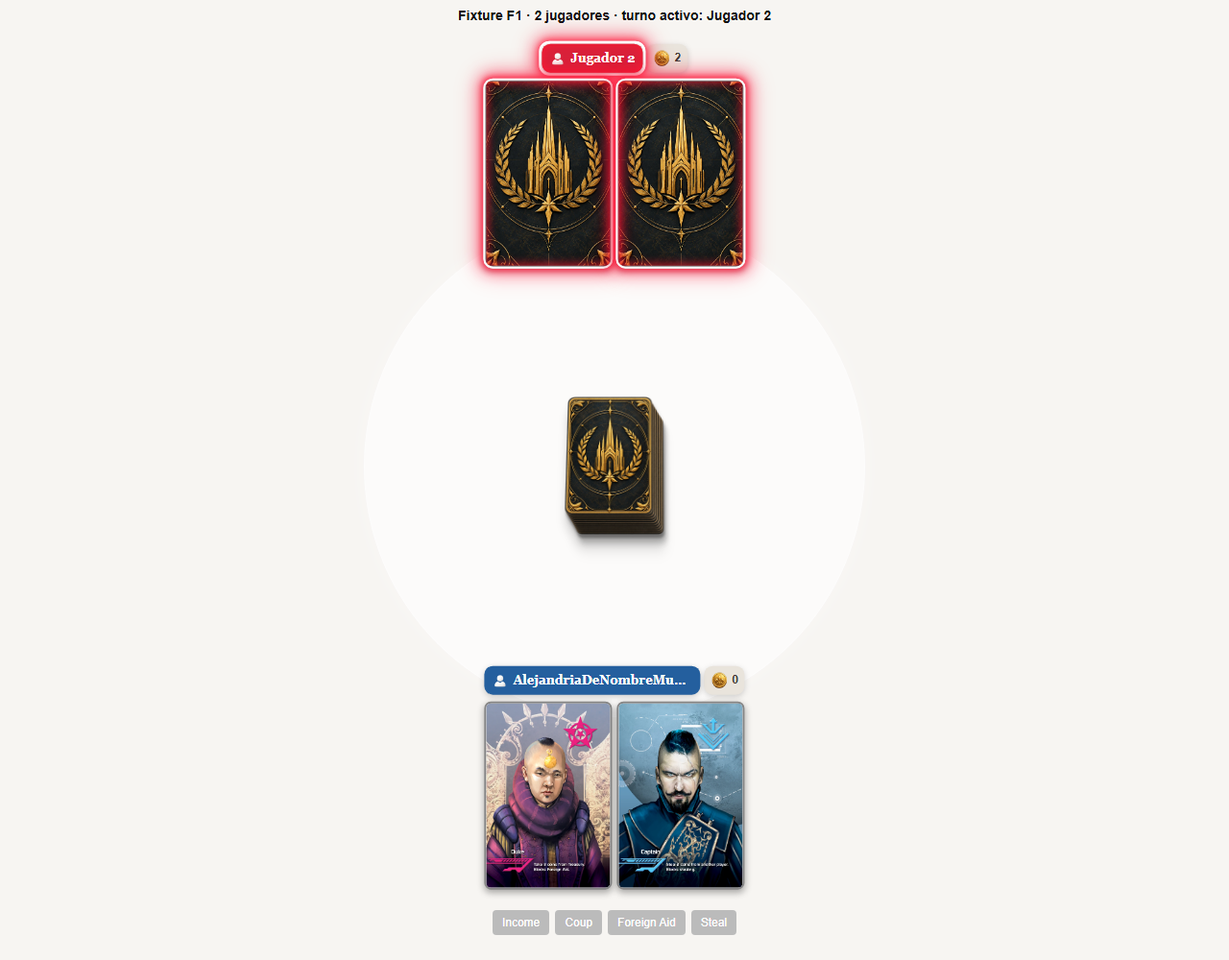
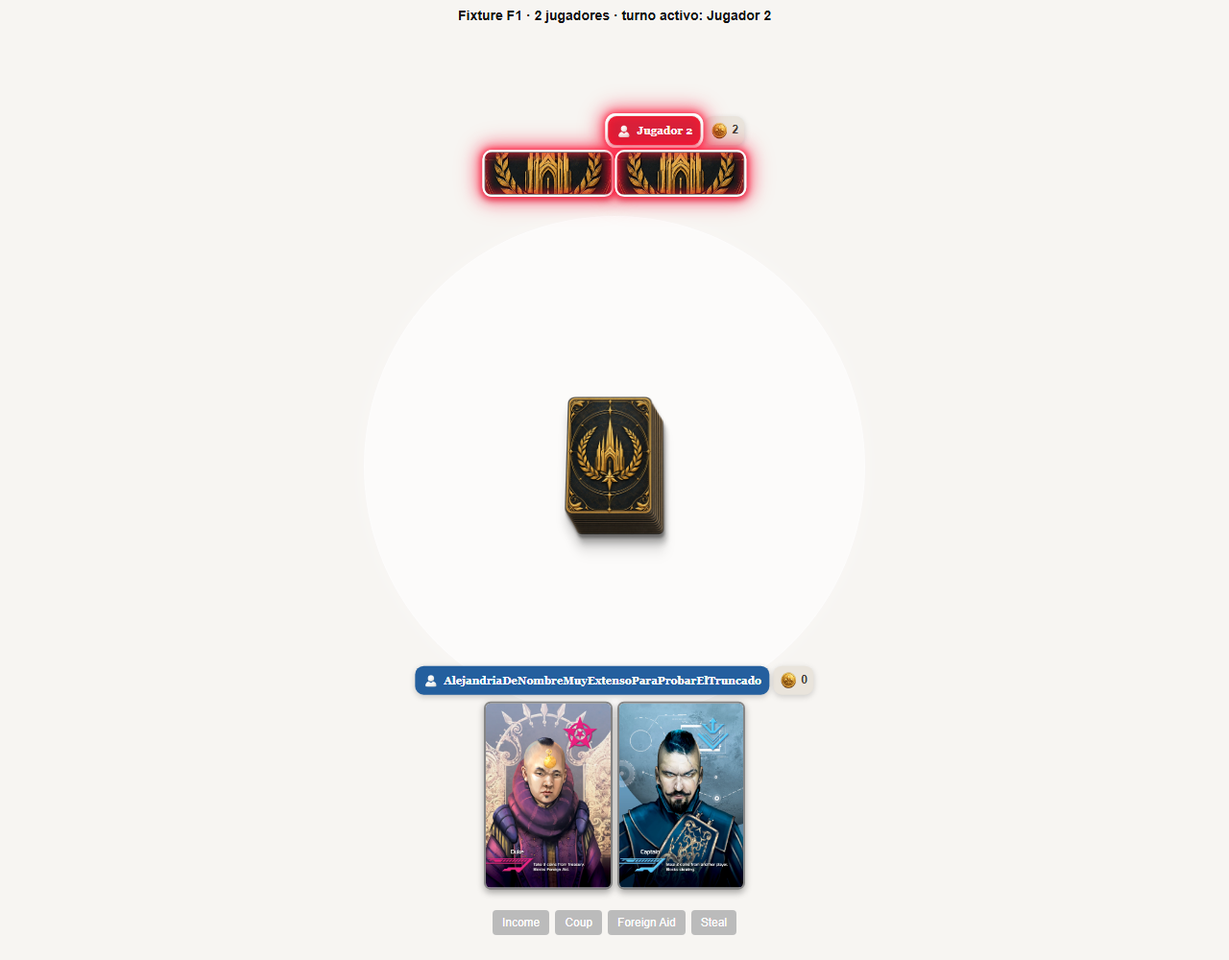
feat(player-header): apply mobile naming and card-height feedback

diff --git a/coup-client/src/components/game/PlayerBoardStyles.css b/coup-client/src/components/game/PlayerBoardStyles.css
@@ -69,13 +69,15 @@
 }
 
 .PlayerBoardSeatHeader {
+    position: relative;
+    left: 50%;
     display: inline-flex;
     align-items: stretch;
     gap: 4px;
     width: max-content;
-    max-width: calc(2 * clamp(76px, 10.4vw, 134px) + 5px);
     box-sizing: border-box;
     margin: 0 auto 7px;
+    transform: translateX(-50%);
 }
 
 .PlayerBoardSeatName {
@@ -87,7 +89,6 @@
     align-items: center;
     gap: 5px;
     box-sizing: border-box;
-    max-width: 100%;
     margin: 0;
     padding: 4px 8px;
     overflow: visible;
@@ -96,7 +97,7 @@
     box-shadow: 0 2px 6px rgba(0, 0, 0, 0.2);
     color: #fff;
     font-family: Georgia, 'Times New Roman', serif;
-    font-size: 0.82rem;
+    font-size: 0.7rem;
     font-weight: 600;
     line-height: 1.15;
     text-align: left;
@@ -113,10 +114,10 @@
 
 .PlayerBoardSeatNameText {
     display: block;
-    flex: 1 1 auto;
-    min-width: 0;
-    overflow: hidden;
-    text-overflow: ellipsis;
+    flex: 0 0 auto;
+    min-width: max-content;
+    overflow: visible;
+    text-overflow: clip;
     white-space: nowrap;
 }
 
@@ -196,6 +197,12 @@
     box-shadow: 0 3px 7px rgba(0, 0, 0, 0.32);
 }
 
+.PlayerBoardSeat:not(.PlayerBoardSeat--observer) .PlayerInfluenceSlot {
+    height: clamp(42px, 3.5vw, 46px);
+    aspect-ratio: auto;
+    border-width: 1px;
+}
+
 .PlayerInfluenceSlot--face {
     padding: 0;
     background: #fff;
@@ -258,7 +265,8 @@
 
 @media only screen and (max-width: 520px) {
     .PlayerBoardSeatHeader {
-        max-width: calc(2 * clamp(58px, 15.5vw, 82px) + 5px);
+        gap: 3px;
+        margin-bottom: 3px;
     }
 
     .PlayerBoardSeat {
@@ -270,28 +278,33 @@
     }
 
     .PlayerBoardSeatName {
-        gap: 4px;
-        padding: 3px 6px;
-        font-size: 0.68rem;
+        gap: 3px;
+        padding: 1px 4px;
+        font-size: 0.52rem;
+        line-height: 1;
     }
 
     .PlayerBoardPlayerIcon {
-        flex-basis: 15px;
-        width: 15px;
-        height: 15px;
+        flex-basis: 12px;
+        width: 12px;
+        height: 12px;
     }
 
     .PlayerBoardSeatCoins {
-        gap: 3px;
-        min-height: 27px;
-        padding: 3px 6px;
-        font-size: 0.68rem;
+        gap: 2px;
+        min-height: 18px;
+        padding: 1px 4px;
+        font-size: 0.58rem;
     }
 
     .PlayerBoardCoinIcon {
-        flex-basis: 16px;
-        width: 16px;
-        height: 16px;
+        flex-basis: 13px;
+        width: 13px;
+        height: 13px;
+    }
+
+    .PlayerBoardSeat:not(.PlayerBoardSeat--observer) .PlayerInfluenceSlot {
+        height: clamp(28px, 9vw, 38px);
     }
 
     .PlayerBoardSeat[data-seat-header-edge="left"] .PlayerBoardSeatHeader {

diff --git a/coup-client/src/components/game/PlayerBoard.js b/coup-client/src/components/game/PlayerBoard.js
@@ -97,6 +97,7 @@ export default function PlayerBoard(props) {
                                 : undefined
                 const seatClassName = [
                     'PlayerBoardSeat',
+                    isObserver ? 'PlayerBoardSeat--observer' : '',
                     isCurrentPlayer ? 'PlayerBoardSeat--current' : ''
                 ].filter(Boolean).join(' ')
 
@@ -157,4 +158,3 @@ export default function PlayerBoard(props) {
         </div>
     )
 }
-

diff --git a/docs/plans/player-header/report_issue_16_F1.md b/docs/plans/player-header/report_issue_16_F1.md
@@ -1,18 +1,19 @@
-# Reporte F1 — issue #16
+# Reporte issue #16 — F1 inicial y reorquestación F2
 
 **Unidad:** https://github.com/pronficilio/coup-online/issues/16
 **Worktree / rama:** `.worktrees/issue-16-player-header` / `issue/16-player-header`
-**Veredicto:** `FAILED` — requiere reorquestación por colisiones que exceden el alcance autorizado.
+**F1 inicial:** `FAILED`; las capturas originales mostraron cruces entre encabezados y cartas rivales.
+**F2 reorquestada:** pasa la revisión visual de capturas en 2–6 jugadores, el build del cliente y `git diff --check`; build con advertencias preexistentes.
 **PR de revisión (draft):** https://github.com/pronficilio/coup-online/pull/17
-**Issue:** permanece abierta. El PR documenta este veredicto fallido y no está listo para integrar.
+**Issue:** permanece abierta. Mantener el PR draft para revisión; no integrar hasta la aprobación del usuario.
 
 ## Cambios revisados
 
 - `coup-client/src/components/game/PlayerBoard.js`: presenta icono y nombre junto al contador de monedas en una fila; conserva `player.money` y la señal existente `props.currentPlayer` para el turno activo.
-- `coup-client/src/components/game/PlayerBoardStyles.css`: estilos de barras, truncado del nombre, resplandor activo y ancho/inset local del encabezado. No cambia la posición de asientos, cartas ni controles.
+- `coup-client/src/components/game/PlayerBoardStyles.css`: estilos de barras, texto completo sin elipsis, resplandor activo, fila móvil más baja y cartas rivales más bajas. No cambia la posición de asientos ni controles.
 - `coup-client/src/assets/player.webp` y `coin.webp`: copias de las fuentes WebP solicitadas.
 
-## Resultado frente a criterios
+## Resultado F1 inicial (histórico)
 
 | Criterio | Resultado | Evidencia |
 |---|---|---|
@@ -20,41 +21,57 @@
 | 2. Neón solo en nombre activo; saldo neutro | Pasa en las fixtures con Jugador 2 activo y los demás inactivos. | Capturas actuales de 2–6 jugadores. |
 | 3. Color inactivo e iconos proporcionados | Pasa en las fixtures inspeccionadas. | Capturas actuales de 2–6 jugadores. |
 | 4. Fila móvil, nombre truncado y saldo íntegro a 320 CSS px | Pasa: los valores `0`, `2` y `10` se conservan y el pill de monedas queda dentro del viewport. | Capturas CDP válidas de 320×900; métricas focales abajo. |
-| 5. Sin recortes ni colisiones con encabezados, cartas o controles para 2–6 jugadores | **Falla**: en 5p y 6p móviles los grupos de cartas/asientos laterales cruzan el encabezado del jugador observador. El baseline también muestra la geometría saturada. | Capturas actuales y baseline de 5p/6p más rectángulos CDP. |
+| 5. Sin recortes ni colisiones con encabezados, cartas o controles para 2–6 jugadores | **Falla en la implementación inicial**: en 5p y 6p móviles las cartas laterales cruzaban el encabezado del observador. El baseline también mostraba la geometría saturada. | Capturas iniciales en el commit `c64551b` y baseline comparable. |
 | 6. Cambios limitados a encabezado, estilos y assets | Pasa: no se modificó layout de asientos, reglas, servidor ni controles. | Diff de la rama. |
 
 ## Método y evidencia visual
 
 Las fixtures prerenderizan el `PlayerBoard` real con `playerBoardLayout.js`, CSS y assets del cliente, con props sintéticas: 2–6 jugadores, nombre largo, saldos `0`/`2`/`10`, Jugador 2 activo y Jugador 4 eliminado en las partidas de 4–6. No son partidas conectadas ni incluyen los controles reales del shell.
 
-Las capturas finales se hicieron mediante CDP con DPR 1 y `visualViewport` de 320×900 CSS px en móvil; los PNG móviles son de 320×900. El escritorio es 1280×1000. Las capturas comparables de baseline son del mismo tamaño. El set final focal se generó el 2026-09-26 a las 16:43 (UTC−06:00).
+Las capturas iniciales se hicieron mediante CDP con DPR 1; los PNG móviles son de 320×900 y el escritorio de 1280×1000. Las capturas comparables de baseline son del mismo tamaño. El set inicial se generó el 2026-09-26 a las 16:43 (UTC−06:00); quedó preservado en el commit `c64551b`.
 
-| Jugadores | Escritorio actual, 1280×1000 | Móvil actual, 320×900 CSS | Baseline comparable |
+| Jugadores | Escritorio F1 inicial, 1280×1000 | Móvil F1 inicial, 320×900 CSS | Baseline comparable |
 |---|---|---|---|
-| 2 | [captura CDP](evidence/issue16_2p_desktop_cdp_final.png) | [captura CDP](evidence/issue16_2p_mobile_320_cdp_final.png) | — |
-| 3 | [captura CDP](evidence/issue16_3p_desktop_cdp_final.png) | [captura CDP](evidence/issue16_3p_mobile_320_cdp_final.png) | — |
-| 4 | [captura CDP](evidence/issue16_4p_desktop_cdp_final.png) | [captura CDP](evidence/issue16_4p_mobile_320_cdp_final.png) | — |
-| 5 | [captura CDP](evidence/issue16_5p_desktop_cdp_final.png) | [captura CDP](evidence/issue16_5p_mobile_320_cdp_final.png) | [escritorio](evidence/issue16_5p_desktop_cdp_baseline.png), [móvil](evidence/issue16_5p_mobile_320_cdp_baseline.png) |
-| 6 | [captura CDP](evidence/issue16_6p_desktop_cdp_final.png) | [captura CDP](evidence/issue16_6p_mobile_320_cdp_final.png) | [escritorio](evidence/issue16_6p_desktop_cdp_baseline.png), [móvil](evidence/issue16_6p_mobile_320_cdp_baseline.png) |
+| 2 | [captura CDP](https://github.com/pronficilio/coup-online/blob/c64551b/docs/plans/player-header/evidence/issue16_2p_desktop_cdp_final.png) | [captura CDP](https://github.com/pronficilio/coup-online/blob/c64551b/docs/plans/player-header/evidence/issue16_2p_mobile_320_cdp_final.png) | — |
+| 3 | [captura CDP](https://github.com/pronficilio/coup-online/blob/c64551b/docs/plans/player-header/evidence/issue16_3p_desktop_cdp_final.png) | [captura CDP](https://github.com/pronficilio/coup-online/blob/c64551b/docs/plans/player-header/evidence/issue16_3p_mobile_320_cdp_final.png) | — |
+| 4 | [captura CDP](https://github.com/pronficilio/coup-online/blob/c64551b/docs/plans/player-header/evidence/issue16_4p_desktop_cdp_final.png) | [captura CDP](https://github.com/pronficilio/coup-online/blob/c64551b/docs/plans/player-header/evidence/issue16_4p_mobile_320_cdp_final.png) | — |
+| 5 | [captura CDP](https://github.com/pronficilio/coup-online/blob/c64551b/docs/plans/player-header/evidence/issue16_5p_desktop_cdp_final.png) | [captura CDP](https://github.com/pronficilio/coup-online/blob/c64551b/docs/plans/player-header/evidence/issue16_5p_mobile_320_cdp_final.png) | [escritorio](evidence/issue16_5p_desktop_cdp_baseline.png), [móvil](evidence/issue16_5p_mobile_320_cdp_baseline.png) |
+| 6 | [captura CDP](https://github.com/pronficilio/coup-online/blob/c64551b/docs/plans/player-header/evidence/issue16_6p_desktop_cdp_final.png) | [captura CDP](https://github.com/pronficilio/coup-online/blob/c64551b/docs/plans/player-header/evidence/issue16_6p_mobile_320_cdp_final.png) | [escritorio](evidence/issue16_6p_desktop_cdp_baseline.png), [móvil](evidence/issue16_6p_mobile_320_cdp_baseline.png) |
 
 ### Medición focal en móvil
 
 En ambos casos el viewport CDP medido es 320×900 CSS px, `devicePixelRatio=1` y `documentElement.clientWidth=320`. El pequeño desbordamiento lateral reportado por `innerWidth`/`scrollWidth` coincide con el borde de la geometría previa del asiento; no oculta el contador.
 
-- **5 jugadores, cambio actual:** encabezado del observador `x=99.5…220.5`, `y=267.5…294.5`; pill de monedas `x=183.4…220.5`, completamente dentro del viewport. Los grupos laterales de Player 2 (`x=201.1…322.1`, `y=201.9…287.2`) y Player 5 (`x=−2.1…118.9`, `y=201.9…287.2`) se cruzan con el encabezado aproximadamente 19.4 px en horizontal por 19.7 px en vertical. Métricas del documento: `innerWidth=323`, `innerHeight=909`, `scrollWidth=323`.
+- **5 jugadores, cambio F1 inicial:** encabezado del observador `x=99.5…220.5`, `y=267.5…294.5`; pill de monedas `x=183.4…220.5`, completamente dentro del viewport. Los grupos laterales de Player 2 (`x=201.1…322.1`, `y=201.9…287.2`) y Player 5 (`x=−2.1…118.9`, `y=201.9…287.2`) se cruzaban con el encabezado aproximadamente 19.4 px en horizontal por 19.7 px en vertical. Métricas del documento: `innerWidth=323`, `innerHeight=909`, `scrollWidth=323`.
 - **5 jugadores, baseline:** el nombre del observador ocupa `x=83.2…254.8`, `y=258.9…281.3`; la barra de monedas queda debajo, `y=285.3…303.1`. La captura también muestra el cruce con grupos laterales.
-- **6 jugadores, cambio actual:** encabezado del observador `x=99.5…220.5`, `y=267.5…294.5`; pill de monedas `x=183.4…220.5`, completamente visible. Los grupos laterales están en `x=−0.3…120.7` y `x=199.3…320.3`, `y=212.0…297.2`; cada uno cruza el encabezado aproximadamente 21 px × 27 px. Métricas del documento: `innerWidth=321`, `innerHeight=903`, `scrollWidth=321`.
+- **6 jugadores, cambio F1 inicial:** encabezado del observador `x=99.5…220.5`, `y=267.5…294.5`; pill de monedas `x=183.4…220.5`, completamente visible. Los grupos laterales estaban en `x=−0.3…120.7` y `x=199.3…320.3`, `y=212.0…297.2`; cada uno cruzaba el encabezado aproximadamente 21 px × 27 px. Métricas del documento: `innerWidth=321`, `innerHeight=903`, `scrollWidth=321`.
 - **6 jugadores, baseline:** las cartas laterales ocupan `y=220.6…305.8` y se cruzan con los encabezados apilados de nombre/monedas, mostrando el mismo problema geométrico.
 
-El ancho del encabezado se limitó y los encabezados de borde se alinearon hacia el interior. El saldo permanece entero, pero la separación no basta para quitar los cruces en 5p/6p móviles. El baseline confirma que la saturación del tablero ya existe; el nuevo bloque de encabezado no puede eliminarla dentro del límite de CSS local sin mover asientos, cartas o controles. Esa geometría está fuera del alcance de #16 y requiere reorquestación. No se amplió el alcance.
+La primera iteración limitó el ancho del encabezado. El saldo permanecía entero, pero las cartas rivales se cruzaban con la barra móvil; ese resultado motivó la reorquestación aprobada por el usuario.
+
+## F2 reorquestada tras feedback del usuario
+
+- El nombre usa letra mucho menor y se muestra completo sin `…`; la barra se centra respecto al asiento para conservar el texto largo dentro del viewport. A 320 CSS px la fila mide 18 px de alto.
+- Las cartas rivales conservan su ancho, pero su altura baja a 28–38 CSS px en móvil y 42–46 px en escritorio. Las cartas del observador mantienen su altura completa.
+- Revisión manual de las capturas CDP de 2–6 jugadores: nombres completos, monedas visibles y sin cruce visible de barras con cartas rivales en 5p/6p. La medición focal de 4p móvil confirma nombre `x=29.0…274.8`, pill `x=281.8…310.0`, ambos dentro del viewport CSS 320 px; la fila completa mide 18 px.
+- El set actualizado, generado el 2026-09-26 a las 17:17 (UTC−06:00), está en la tabla nueva. El tablero conserva el viewport y las barras del nombre/saldo quedan dentro de él en los casos revisados.
+
+| Jugadores | Escritorio F2, 1280×1000 | Móvil F2, 320×900 CSS |
+|---|---|---|
+| 2 | [captura CDP](evidence/issue16_2p_desktop_cdp_final.png) | [captura CDP](evidence/issue16_2p_mobile_320_cdp_final.png) |
+| 3 | [captura CDP](evidence/issue16_3p_desktop_cdp_final.png) | [captura CDP](evidence/issue16_3p_mobile_320_cdp_final.png) |
+| 4 | [captura CDP](evidence/issue16_4p_desktop_cdp_final.png) | [captura CDP](evidence/issue16_4p_mobile_320_cdp_final.png) |
+| 5 | [captura CDP](evidence/issue16_5p_desktop_cdp_final.png) | [captura CDP](evidence/issue16_5p_mobile_320_cdp_final.png) |
+| 6 | [captura CDP](evidence/issue16_6p_desktop_cdp_final.png) | [captura CDP](evidence/issue16_6p_mobile_320_cdp_final.png) |
 
 ## Validaciones
 
 - `BUILD_PATH=/tmp/issue16_final_build npm run build` desde `coup-client/`: **código 0**, `Compiled with warnings`. Avisos reportados: imports sin uso en `src/App.js` (`logo`, `Link`) y `src/components/game/Coup.js` (`ReactModal`), más `caniuse-lite` desactualizado. Bundle gzip reportado: 110.94 kB JS y 3.35 kB CSS.
+- `BUILD_PATH=/tmp/issue16_rework_final_build npm run build` desde `coup-client/`: **código 0**, compiló con las mismas advertencias de imports sin uso y `caniuse-lite` desactualizado. Bundle gzip: 110.94 kB JS y 3.4 kB CSS.
 - `git diff --check`: pasó sin salida.
 - No se añadieron ni ejecutaron tests automatizados.
 - Las primeras capturas CLI que pedían ventana física de 320 px no fijaban un viewport CSS de 320 px; se descartaron y se retiraron. Este reporte solo enlaza el set CDP validado.
 
 ## Siguiente paso
 
-F1 queda `FAILED` y requiere que el Orquestador reorqueste el problema de geometría si #5 debe cumplirse en 5p/6p móviles. Por solicitud explícita del usuario, el trabajo se publica en un PR draft para revisión de la evidencia, con este fallo señalado. Mantener la issue abierta; no integrar ni cerrar la issue.
+F1 inicial queda `FAILED`. F2 recoge el feedback del usuario y pasa la inspección visual de capturas, build y `git diff --check`. Mantener la issue abierta y el PR draft para revisión del usuario; no integrar ni cerrar la issue.

diff --git a/docs/plans/player-header/plan_player_header.md b/docs/plans/player-header/plan_player_header.md
@@ -1,6 +1,6 @@
 # Plan: encabezado del jugador con saldo y neón de turno — issue #16
 
-**Estado:** `ACTIVE`; F1 `FAILED` — requiere reorquestación.
+**Estado:** `ACTIVE`; F1 inicial `FAILED`; F2 `READY_FOR_USER_REVIEW` tras reorquestación.
 **Unidad:** https://github.com/pronficilio/coup-online/issues/16
 **Handoff:** `docs/plans/active/issue_16_player_header.md`
 **Bitácora:** `docs/plans/log/issue-16.jsonl`
@@ -12,7 +12,7 @@
 
 Rediseñar la identificación visual de cada jugador según `fotos/jugador.png`: barra con icono y nombre, seguida a la derecha por una barra más corta con moneda y saldo. En el turno activo, el nombre tendrá el neón rojo de `fotos/focus.png`, coordinado con el efecto que ya tienen las cartas.
 
-Éxito significa que el nombre y saldo se leen de un vistazo en partidas de 2 a 6 jugadores; el neón identifica correctamente el turno; y el encabezado funciona en escritorio y móvil sin recortar saldos ni chocar con cartas, jugadores o controles.
+Éxito significa que el nombre completo y el saldo se leen de un vistazo en partidas de 2 a 6 jugadores; el neón identifica correctamente el turno; y el encabezado funciona en escritorio y móvil sin truncar nombres ni saldos ni chocar con cartas, jugadores o controles.
 
 ## Fuentes, hechos y supuestos
 
@@ -21,18 +21,18 @@ Rediseñar la identificación visual de cada jugador según `fotos/jugador.png`:
 - El tablero circular ya está integrado en `master` (#5 y #9). La PR #11 de #6 sigue abierta y modifica `Coup.js`, `ActionDecision.js` y `CoupStyles.css`; no incluye `PlayerBoard.js` ni `PlayerBoardStyles.css`. La PR #12 de #8 está fusionada y modifica paneles de referencia, sin solapamiento con este alcance.
 - GitHub todavía muestra #6 y #8 abiertas, aunque sus cuerpos/docs locales contienen referencias de seguimiento anteriores a esas integraciones. No se editarán esas unidades como parte de #16.
 - `fotos/player.webp` y `fotos/coin.webp` existen en el checkout local, pero son fuentes locales, no assets del repositorio remoto. El Ejecutor debe copiarlas explícitamente al worktree de #16 antes de usarlas. No versionar los PNG fuente.
-- Se conserva la geometría y el cálculo de asientos actuales. Se asume que el ancho del encabezado puede limitarse con CSS sin cambiar el tablero; si la evidencia visual contradice esto, detenerse y reorquestar.
+- Se conserva la geometría y el cálculo de asientos actuales. Tras revisar el primer resultado, el usuario autorizó reducir la altura visual de las cartas de los rivales, además de compactar la barra móvil. No se cambian posiciones de asientos, reglas, datos ni controles.
 
 ## Alcance y criterios de aceptación
 
 1. Cada jugador muestra en una sola fila su icono, nombre y una barra neutra de monedas a la derecha, con altura alineada y el valor real, incluido cero y cifras de dos dígitos.
 2. Solo el jugador activo recibe fondo rojo, contorno claro y halo rojo en la barra del nombre. El efecto sigue a `props.currentPlayer` y se coordina con las cartas actuales. La barra de monedas mantiene el fondo neutro.
 3. El color asignado al jugador se conserva en el nombre cuando no es su turno. Los iconos mantienen transparencia y proporción.
-4. En móvil, las barras siguen en una fila. Nombres largos se abrevian visualmente, conservando el nombre completo accesible; icono y saldo permanecen visibles.
+4. En móvil, la barra ocupa menos altura, el texto del nombre usa tipografía reducida y se muestra completo sin puntos suspensivos; el nombre puede expandirse naturalmente, mientras el saldo permanece entero y visible.
 5. La inspección de 2 a 6 jugadores no encuentra encabezados recortados o superpuestos entre sí, con cartas o con controles.
-6. Los cambios se limitan a encabezado, estilos y assets derivados necesarios; no alteran datos de juego, turno, asientos ni lógica del servidor.
+6. Los cambios se limitan a encabezado, altura CSS de cartas rivales y assets derivados necesarios; no alteran datos de juego, turno, coordenadas de asientos ni lógica del servidor.
 
-## F1 — Construir y revisar el encabezado (`FAILED`; reorquestación requerida)
+## F1 — Implementación inicial (`FAILED`; reorquestada tras feedback)
 
 **Pregunta única:** ¿el nuevo encabezado reproduce las referencias, sigue el turno real y permanece legible para 2–6 jugadores en escritorio y móvil?
 **Entrada:** issue #16, este plan, `fotos/jugador.png`, `fotos/focus.png`, `fotos/player.webp`, `fotos/coin.webp`, `PlayerBoard.js` y `PlayerBoardStyles.css` desde `origin/master`.
@@ -42,7 +42,14 @@ Rediseñar la identificación visual de cada jugador según `fotos/jugador.png`:
 **Avanzar:** pasan los seis criterios anteriores y se entrega evidencia visual más compilación del cliente. **Pivotar:** solo ajustes CSS localizados dentro del encabezado. **Repetir:** una corrección visual acotada por viewport. **Bloquear/reorquestar:** si resolver una colisión requiere cambiar geometría de asientos, cartas u otras áreas fuera de alcance.
 **Falsificación:** con seis jugadores y nombres largos a 320 px, ¿se oculta el saldo, se recorta el neón o se superpone el encabezado con otro jugador, las cartas o controles?
 **Validación:** revisión manual en escritorio y móvil, incluidas vista de 320 px, 2–6 jugadores, nombres largos, saldos 0/2/10, turnos activo/inactivo y jugadores eliminados; compilación de coup-client y `git diff --check`. No añadir ni ejecutar tests automatizados.
-**Publicación:** F1 falló el criterio 5 y requiere reorquestación. Por solicitud explícita del usuario, la rama está en el [PR draft #17](https://github.com/pronficilio/coup-online/pull/17) para revisión visual de las capturas; declarar claramente que no está listo para integrar. Mantener la issue abierta y no fusionar ni cerrar.
+**Publicación:** F1 inicial falló el criterio 5; el usuario reorquestó el trabajo y F2 incorpora sus ajustes. La rama está en el [PR draft #17](https://github.com/pronficilio/coup-online/pull/17) para revisar las capturas actualizadas. Mantener la issue abierta y no fusionar ni cerrar.
+
+## F2 — Ajuste visual tras feedback del usuario (`READY_FOR_USER_REVIEW`)
+
+**Decisión autorizada:** reducir bastante el tamaño de letra del nombre, eliminar el truncado con `…` y dejar que el texto completo determine el ancho de la barra; bajar la altura de la barra móvil; reducir la altura de las cartas de los rivales. Las cartas del observador conservan su altura completa.
+**Implementación:** centrar la fila sobre el asiento para que un nombre largo no se corte en los bordes; barra móvil de 18 CSS px, letra de 0.52 rem y sin elipsis; cartas rivales de 28–38 CSS px en móvil y 42–46 CSS px fuera de móvil. El layout y los puntos de asiento no cambian.
+**Evidencia:** capturas CDP actuales de 2–6 jugadores a 320×900 y 1280×1000 en `docs/plans/player-header/evidence/`; inspección visual de matriz, build y `git diff --check` pasan.
+**Avanzar:** dejar el PR draft para revisión del usuario. No fusionar ni cerrar #16.
 
 ## Topología, riesgos y revisión
 

diff --git a/docs/plans/active/issue_16_player_header.md b/docs/plans/active/issue_16_player_header.md
@@ -3,7 +3,7 @@
 **Issue:** https://github.com/pronficilio/coup-online/issues/16
 **Plan exacto:** `docs/plans/player-header/plan_player_header.md`
 **Bitácora exacta:** `docs/plans/log/issue-16.jsonl`
-**Estado:** `ACTIVE`; F1 `FAILED` — requiere reorquestación.
+**Estado:** `ACTIVE`; F1 inicial `FAILED`; F2 `READY_FOR_USER_REVIEW` tras reorquestación solicitada por el usuario.
 **Modo / riesgo / verificación:** `LIGHT` / `LOW` / `NONE`.
 **Verifier requerido ahora:** no; revisión final del Orquestador.
 **Branch destino de toda la issue:** `issue/16-player-header`.
@@ -15,21 +15,27 @@
 
 Reclama #16 en GitHub, relee su estado y confirma que no existe reclamo incompatible. Solo entonces crea/confirma una rama única `issue/16-player-header` y worktree `.worktrees/issue-16-player-header` desde `origin/master` actualizado. Todo el trabajo de la unidad ocurre allí; no trabajes en `master` ni abras ramas por fase. Registra `claim` y `worktree_confirmed` en esta bitácora dentro de la rama, con el commit de control que corresponda. El checkout raíz contiene cambios locales preexistentes: no los limpies ni copies a esta unidad.
 
-## F1 — construir y revisar el encabezado
+## F1 inicial — construir y revisar el encabezado
 
-Implementa conjuntamente la fila del jugador y su estado de turno según el plan canónico. Cambia solo `coup-client/src/components/game/PlayerBoard.js`, `PlayerBoardStyles.css` y agrega `coup-client/src/assets/player.webp` y `coin.webp`. Conserva `player.money`, `props.currentPlayer`, colores fuera del turno y la geometría actual. El nombre activo recibe el neón rojo coordinado con las cartas; las monedas conservan fondo neutro. En móvil, el encabezado queda en una fila, el nombre se puede abreviar y el contador permanece entero.
+La implementación inicial incorporó la fila del jugador, su estado de turno, los assets y una abreviación CSS del nombre. Conserva `player.money`, `props.currentPlayer`, colores fuera del turno y la geometría de asientos. El informe registró el fallo inicial de colisiones en móviles de 5p/6p.
 
 Las fuentes están en el checkout de orquestación, que no forma parte del remoto: `fotos/player.webp` y `fotos/coin.webp` (raíz actual `/mnt/e/dev/coup/fotos/`). Cópialas selectivamente al worktree solo después de confirmar que son las fuentes pedidas. Conserva proporción/transparencia y versiona solo las copias WebP del cliente. No añadas PNG fuente.
 
-**Criterios:** sigue los seis criterios de aceptación y límites de `docs/plans/player-header/plan_player_header.md`. Si no puedes evitar recortes/colisiones sin tocar asientos u otras áreas, detente y reporta evidencia al Orquestador para reorquestar.
+**F1 inicial:** `FAILED`; el usuario revisó el PR draft y autorizó la reorquestación siguiente.
+
+## F2 — revisión según feedback del usuario
+
+Reduce bastante la letra de los nombres; elimina `…` y permite que el texto completo expanda la barra. En móvil reduce la altura de esa barra y reduce también la altura de las cartas rivales. Se permite ajustar el alto visual de `PlayerInfluenceSlot` en CSS; conserva las cartas propias completas y no muevas asientos.
+
+**Criterios:** nombre completo visible sin truncar ni salirse del viewport, saldo completo, barra móvil más baja y sin cruces visibles con cartas rivales para 2–6 jugadores. El neón sigue el turno real y los controles/datos quedan intactos.
 
 **Evidencia:** `docs/plans/player-header/report_issue_16_F1.md` y capturas acotadas para escritorio y móvil, incluyendo ancho 320 px, composición de 2–6 jugadores, nombre largo, saldos 0/2/10 y ambos estados de turno. Registrar observaciones de eliminación y colisiones.
 
 **Validaciones:** inspección visual/manual, `npm run build` desde `coup-client` y `git diff --check`. No añadir ni ejecutar tests automatizados. Registrar comandos y resultados reales, sin anticiparlos.
 
-**Resultado F1 (2026-09-26):** FAILED; reorquestación requerida. La evidencia CDP confirma el saldo entero dentro del viewport CSS de 320 px, pero en 5p/6p los encabezados se cruzan con cartas/asientos laterales. El baseline tiene la misma geometría saturada; quitar las colisiones requiere mover asientos/cartas/controles, que el alcance actual prohíbe. Ver `docs/plans/player-header/report_issue_16_F1.md` y sus capturas CDP. La compilación final y `git diff --check` pasaron; no se ejecutaron tests. A petición explícita del usuario, se abrió el [PR draft #17](https://github.com/pronficilio/coup-online/pull/17) para revisar las capturas; F1 no está listo para integrar y la issue permanece abierta.
+**Resultado F1 inicial (2026-09-26):** FAILED; en 5p/6p móvil se cruzaban barras y cartas laterales. El usuario autorizó reducir la altura de cartas rivales y compactar la tipografía/barra; F2 implementa esa reorquestación. Las capturas nuevas y resultados actuales están en `docs/plans/player-header/report_issue_16_F1.md`. La issue permanece abierta y el [PR #17](https://github.com/pronficilio/coup-online/pull/17) sigue en draft.
 
-**Cierre:** política `COMMIT_REQUIRED` para una F1 exitosa. En este resultado fallido, el usuario autorizó publicar un PR draft solo para revisar cambios y capturas; el PR debe explicar que requiere reorquestación, sin integrar ni cerrar #16. Registrar ambos eventos en `docs/plans/log/issue-16.jsonl`.
+**Cierre:** compilar y revisar manualmente F2; mantener el PR draft para revisión del usuario, sin fusionar ni cerrar #16. Registrar el resultado y las capturas nuevas en `docs/plans/log/issue-16.jsonl`.
 
 ## Pregunta de falsificación
 
